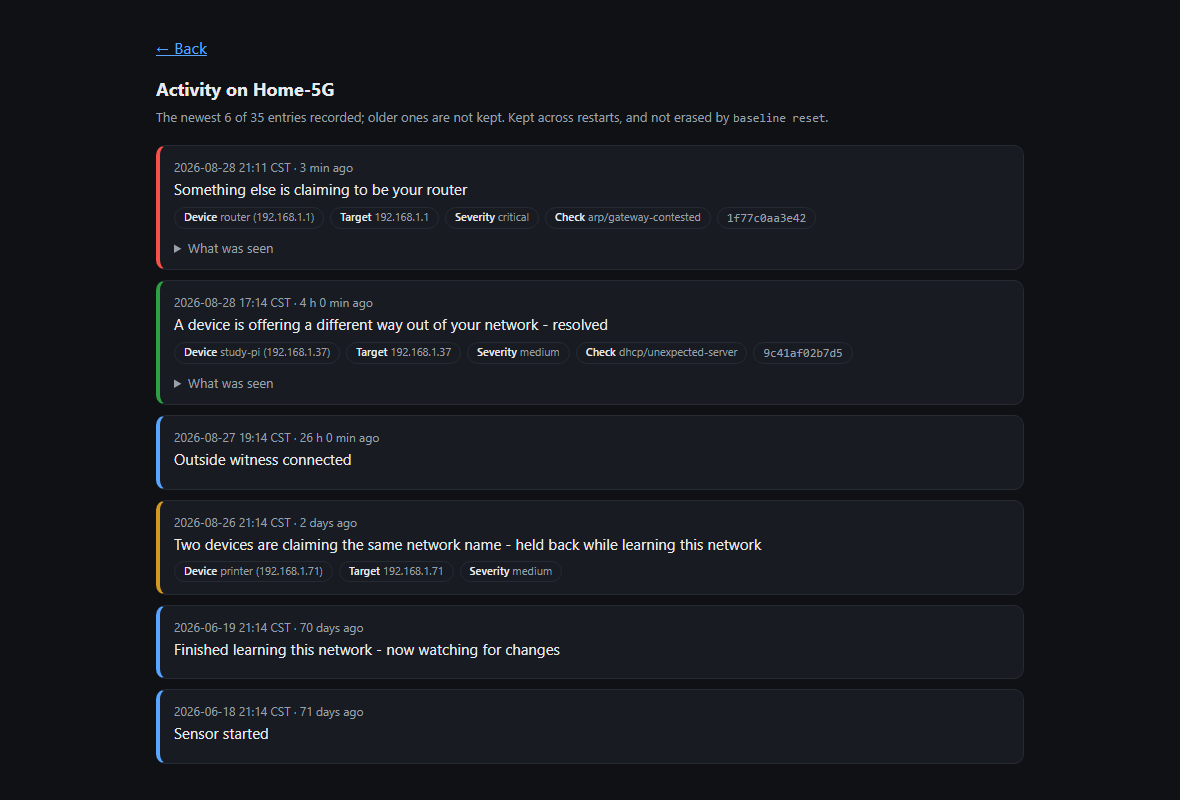
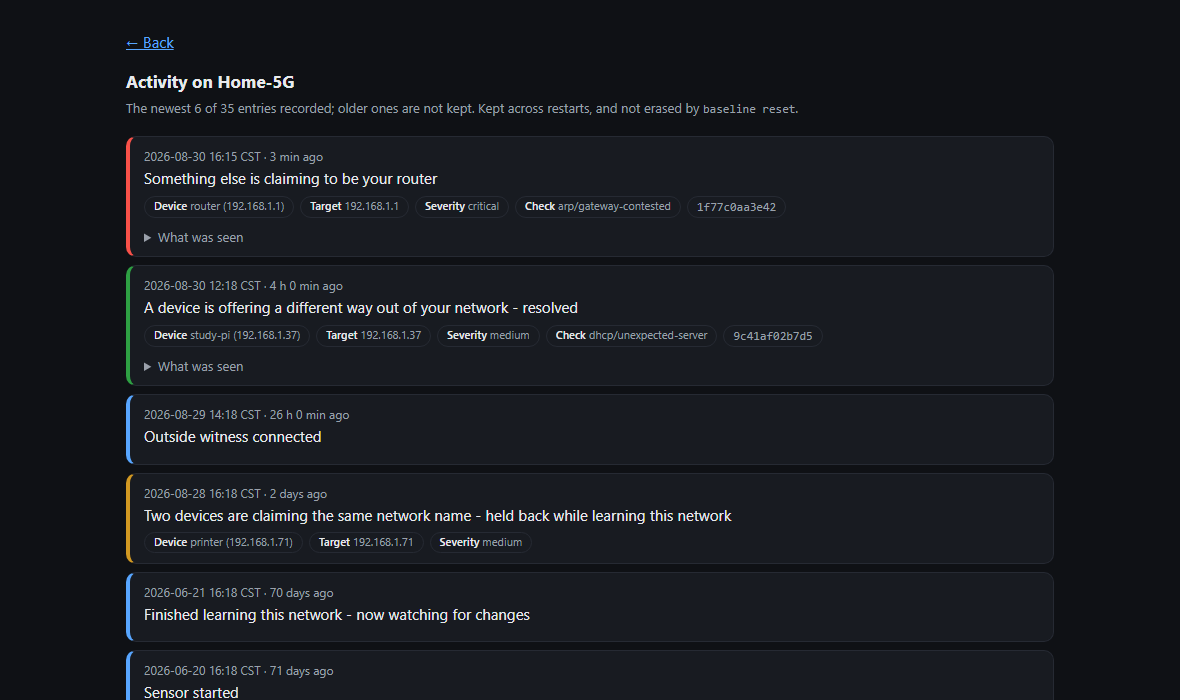
web: lay the dashboard out for the state it is in almost all of the time
The page spent the same space on "everything is fine" as on "you are being
intercepted", and it is in the first state essentially always. At 1180px wide a
healthy network rendered ~1050px tall, and ~520px of that came before the first
row of real content: a banner and a facts strip that between them repeated the
network name and the trust level, then six cards using 220px to say "ok" six
times. On a phone it was ~570px of scrolling to reach anything.

Now the verdict and the facts are one status bar, and the six areas are one row
of chips with a coloured dot each. An area that needs attention expands to a
full-width row and floats to the front, so the state that matters is the only
one that costs space. A healthy page is ~470px with content starting at ~145px;
the alarmed page is now taller than the calm one, which is the right way round.

Only "attention" expands, and that is deliberate rather than "anything not ok".
Wi-Fi is permanently "unknown" because that monitor is not built, so expanding
on not-ok would put a shouting row on every healthy page - it did, until I
looked at the render. During the learning window every area is "learning",
which would have expanded all six at once.

Emoji are gone. areaIcon returned six of them and nothing replaces it: the six
labels are already short, the coloured dot already carries state, and a second
glyph per chip would double the noise of the densest element on the page for no
[…]

Changed region(s): [[0.0915, 0.03, 0.7017, 1.0], [0.6407, 0.42, 0.7322, 0.51], [0.2441, 0.93, 0.2746, 0.99]]

diff --git a/internal/web/templates/home.html b/internal/web/templates/home.html
@@ -21,76 +21,109 @@
   *{box-sizing:border-box}
   body{margin:0;font:16px/1.5 system-ui,-apple-system,Segoe UI,Roboto,sans-serif;
     background:var(--bg);color:var(--ink);overflow-x:hidden}
-  .wrap{max-width:960px;margin:0 auto;padding:20px 16px 64px}
+  .wrap{max-width:960px;margin:0 auto;padding:16px 16px 40px;font-size:15px}
   header{display:flex;align-items:baseline;justify-content:space-between;gap:12px;flex-wrap:wrap}
-  header h1{font-size:15px;font-weight:600;color:var(--dim);margin:0;letter-spacing:.02em}
-  header .net{font-size:13px;color:var(--dim)}
-  .banner{margin:16px 0 10px;padding:22px 20px;border-radius:14px;background:var(--card);
-    border:1px solid var(--edge);border-left:6px solid var(--accent);display:flex;gap:16px;align-items:center}
-  .banner .dot{width:14px;height:14px;border-radius:50%;background:var(--accent);flex:none;
-    box-shadow:0 0 0 4px color-mix(in srgb,var(--accent) 25%,transparent)}
-  .banner h2{margin:0;font-size:22px}
-  .banner .sub{color:var(--dim);font-size:13px;margin-top:2px}
-  .facts{display:flex;flex-wrap:wrap;gap:8px;margin:0 0 4px}
-  .fact{font-size:12px;color:var(--dim);background:var(--card);border:1px solid var(--edge);
-    border-radius:999px;padding:5px 12px;display:flex;align-items:center;gap:6px}
-  .fact b{color:var(--ink);font-weight:600}
-  .dot2{width:8px;height:8px;border-radius:50%;flex:none}
+  header h1{font-size:14px;font-weight:600;color:var(--dim);margin:0;letter-spacing:.02em}
+  header .net{font-size:12px;color:var(--dim)}
+
+  /* The verdict and the facts about this sensor, in one row instead of two
+     stacked blocks. The old banner spent ~130px with its facts strip to say one
+     sentence, and repeated the network name and trust level that both already
+     appear elsewhere on the same screen. */
+  .statusbar{display:flex;flex-wrap:wrap;align-items:center;gap:6px 14px;
+    margin:10px 0 0;padding:10px 14px;border-radius:10px;
+    background:var(--card);border:1px solid var(--edge);border-left:4px solid var(--accent)}
+  .statusbar .dot{width:10px;height:10px;border-radius:50%;background:var(--accent);flex:none;
+    box-shadow:0 0 0 3px color-mix(in srgb,var(--accent) 25%,transparent)}
+  .statusbar h2{margin:0;font-size:20px;line-height:1.2;font-weight:600}
+  .statusbar .meta{margin-left:auto;font-size:12px;color:var(--dim);
+    display:flex;flex-wrap:wrap;gap:4px 10px}
+  .statusbar .meta b{color:var(--ink);font-weight:600}
+  html[data-state="attention"] .statusbar{border-left-width:5px;
+    background:color-mix(in srgb,var(--bad) 8%,var(--card))}
+  @media (max-width:640px){.statusbar .meta{margin-left:0;flex-basis:100%}}
+  .dot2{width:7px;height:7px;border-radius:50%;flex:none;display:inline-block}
   .dot2.ok{background:var(--ok)} .dot2.bad{background:var(--bad)} .dot2.none{background:var(--unknown)}
-  .grid{display:grid;grid-template-columns:repeat(auto-fill,minmax(230px,1fr));gap:12px;margin:16px 0}
-  .card{background:var(--card);border:1px solid var(--edge);border-radius:12px;padding:14px}
-  .card .head{display:flex;align-items:center;gap:8px;font-weight:600}
-  .card .icon{font-size:18px}
-  .card .line{color:var(--dim);font-size:13px;margin-top:6px}
-  .pill{margin-left:auto;font-size:11px;text-transform:uppercase;letter-spacing:.04em;
-    padding:2px 8px;border-radius:999px;border:1px solid var(--edge);color:var(--dim)}
-  .pill.ok{color:var(--ok);border-color:color-mix(in srgb,var(--ok) 50%,var(--edge))}
-  .pill.attention{color:var(--bad);border-color:color-mix(in srgb,var(--bad) 50%,var(--edge))}
-  .pill.learning{color:var(--learn);border-color:color-mix(in srgb,var(--learn) 50%,var(--edge))}
-  h3.sec{font-size:13px;color:var(--dim);text-transform:uppercase;letter-spacing:.05em;margin:26px 0 10px;
-    display:flex;align-items:center;gap:8px}
-  h3.sec .count{font-size:11px;color:var(--dim);background:var(--card);border:1px solid var(--edge);
-    border-radius:999px;padding:1px 8px}
+
+  /* The six areas. This page is in the all-clear state almost all of the time,
+     and six cards spending 220px to say "ok" six times is the bulk of what was
+     being wasted. Every area is a chip with a coloured dot; only one that needs
+     attention expands to a full-width row and floats to the front, so the state
+     that matters is the only one that costs space.
+     Only "attention" expands, deliberately. Wi-Fi is permanently "unknown"
+     because that monitor is not built, so expanding on not-ok would put a
+     shouting row on every healthy page; and during the learning window every
+     area is "learning", which would expand all six at once. Both of those are
+     chips, and a check that could not run is also recorded in the activity log
+     rather than relying on this strip to carry it. */
+  ul.strip{list-style:none;display:flex;flex-wrap:wrap;gap:6px;margin:8px 0 0;padding:0}
+  ul.strip li{display:flex;align-items:center;gap:7px;font-size:13px;
+    padding:3px 11px 3px 9px;border:1px solid var(--edge);border-radius:999px;
+    background:var(--card);white-space:nowrap}
+  ul.strip li::before{content:"";width:7px;height:7px;border-radius:50%;flex:none;background:var(--unknown)}
+  ul.strip li.ok::before{background:var(--ok)}
+  ul.strip li.attention::before{background:var(--bad)}
+  ul.strip li.learning::before{background:var(--learn)}
+  ul.strip li.unknown::before{background:var(--unknown)}
+  /* order:-1 puts the unhappy area first without the server reordering. */
+  ul.strip li.open{flex-basis:100%;white-space:normal;border-radius:10px;order:-1;
+    padding:8px 12px;align-items:flex-start;gap:9px;
+    border-color:color-mix(in srgb,var(--bad) 45%,var(--edge))}
+  ul.strip li.open::before{margin-top:6px;width:8px;height:8px}
+  ul.strip li .band{font-size:11px;text-transform:uppercase;letter-spacing:.05em;color:var(--bad)}
+  ul.strip li .line{color:var(--dim);font-size:13px}
+
   .alert{background:var(--card);border:1px solid var(--edge);border-left:5px solid var(--bad);
-    border-radius:12px;padding:16px;margin-bottom:12px}
-  .alert h4{margin:0 0 4px;font-size:17px}
+    border-radius:10px;padding:12px 14px;margin:16px 0 0}
   .alert .band{font-size:11px;text-transform:uppercase;letter-spacing:.05em;color:var(--bad)}
-  .alert .mean{margin:8px 0 0}
-  .alert .act{margin:8px 0 0;padding:10px 12px;background:color-mix(in srgb,var(--warn) 12%,transparent);
-    border-radius:8px;font-size:14px}
-  .alert details{margin-top:10px}
-  .alert summary{cursor:pointer;color:var(--dim);font-size:13px}
-  .alert table{width:100%;border-collapse:collapse;margin-top:8px;font-size:13px}
-  .alert td{padding:3px 8px;border-top:1px solid var(--edge);vertical-align:top}
+  .alert h4{margin:2px 0 0;font-size:15px}
+  .alert .mean{margin:6px 0 0;font-size:13px;color:var(--dim)}
+  .alert .act{margin:8px 0 0;padding:8px 10px;border-radius:6px;font-size:13px;
+    background:color-mix(in srgb,var(--warn) 12%,transparent)}
+  .alert .evlabel{margin:10px 0 0;font-size:11px;text-transform:uppercase;letter-spacing:.05em;color:var(--dim)}
+  /* Always visible rather than behind a disclosure: the page reloads itself
+     every 15 seconds, so anything the reader opened would close under them.
+     Capped and scrolled instead, because an evidence map is attacker-influenced
+     text and must not be able to lengthen the page without bound. */
+  .alert .ev{margin:4px 0 0;max-height:180px;overflow:auto}
+  .alert table{width:100%;border-collapse:collapse;font-size:12px}
+  .alert td{padding:2px 8px 2px 0;border-top:1px solid var(--edge);vertical-align:top;word-break:break-word}
   .alert td.k{color:var(--dim);white-space:nowrap;width:1%}
-  .cols{display:grid;grid-template-columns:1.35fr 1fr;gap:12px;align-items:start}
+
+  .cols{display:grid;grid-template-columns:1.35fr 1fr;gap:12px;align-items:start;margin-top:16px}
   .cols>*{min-width:0}
-  /* The device table is dense (name, IP, MAC, age); two columns only earn their
-     keep on a wide screen. Below that, stack so the table gets the full width
-     and its cells stop wrapping mid-value. */
+  /* The device table is dense (name, address, hardware, two dates); two columns
+     only earn their keep on a wide screen. Below that, stack so the table gets
+     the full width and its cells stop wrapping mid-value. */
   @media (max-width:900px){.cols{grid-template-columns:1fr}}
-  /* On a phone the hardware address is the widest, least-needed column: drop it
-     so the table fits without a sideways scroll. */
+  /* On a phone the hardware address and the first-seen date are the widest,
+     least-needed columns: hide them so the table fits without a sideways
+     scroll. Hidden in CSS, never dropped from the markup - the cells still
+     exist, which is what keeps the page honest at every width. */
   @media (max-width:560px){
-    table.dev th:nth-child(3),table.dev td:nth-child(3){display:none}
+    table.dev th:nth-child(3),table.dev td:nth-child(3),
     table.dev th:nth-child(4),table.dev td:nth-child(4){display:none}
   }
-  .panel{background:var(--card);border:1px solid var(--edge);border-radius:12px;padding:14px 16px}
-  .panel h3.sec{margin:2px 0 10px}
+  .panel{background:var(--card);border:1px solid var(--edge);border-radius:10px;padding:12px 14px}
+  h3.sec{font-size:12px;color:var(--dim);text-transform:uppercase;letter-spacing:.05em;
+    margin:0 0 10px;display:flex;align-items:center;gap:8px}
+  h3.sec a{color:inherit;text-decoration:none;border-bottom:1px dotted var(--edge)}
+  h3.sec .count{font-size:11px;color:var(--dim);border:1px solid var(--edge);
+    border-radius:999px;padding:1px 8px}
   /* Grow with content, then cap and scroll inside rather than lengthen the page. */
   .tablewrap{overflow:auto;max-height:62vh}
   table.dev{width:100%;border-collapse:collapse;font-size:13px}
   table.dev th{text-align:left;font-weight:600;color:var(--dim);font-size:11px;text-transform:uppercase;
-    letter-spacing:.04em;padding:6px 8px 6px 0;border-bottom:1px solid var(--edge);white-space:nowrap;
+    letter-spacing:.04em;padding:4px 8px 4px 0;border-bottom:1px solid var(--edge);white-space:nowrap;
     position:sticky;top:0;background:var(--card)}
-  table.dev td{padding:7px 8px 7px 0;border-bottom:1px solid var(--edge);vertical-align:top;white-space:nowrap}
+  table.dev td{padding:5px 8px 5px 0;border-bottom:1px solid var(--edge);vertical-align:top;white-space:nowrap}
   /* Names can be long (a full hostname); let only that column wrap. */
   table.dev td:first-child{white-space:normal;word-break:break-word}
   table.dev tr:last-child td{border-bottom:none}
   .mono{font-family:ui-monospace,SFMono-Regular,Menlo,Consolas,monospace;font-size:12px}
   .dim{color:var(--dim)}
   ul.log{list-style:none;margin:0;padding:0;max-height:62vh;overflow-y:auto}
-  ul.log li{display:flex;gap:10px;padding:7px 0;border-bottom:1px solid var(--edge);font-size:13px}
+  ul.log li{display:flex;gap:10px;padding:5px 0;border-bottom:1px solid var(--edge);font-size:13px}
   ul.log li:last-child{border-bottom:none}
   ul.log li::before{content:"";width:8px;height:8px;border-radius:50%;flex:none;margin-top:6px;background:var(--dim)}
   ul.log li.log-alert::before{background:var(--bad)}
@@ -98,12 +131,12 @@
   ul.log li.log-stale::before{background:var(--warn)}
   ul.log li.log-held::before{background:var(--warn)}
   ul.log li.log-system::before{background:var(--learn)}
-  ul.log .when{color:var(--dim);white-space:nowrap;flex:none;min-width:78px}
+  ul.log .when{color:var(--dim);white-space:nowrap;flex:none;min-width:74px}
   ul.log .who{color:var(--dim)}
   .more{margin-top:10px;font-size:12px}
-  /* When the neighbour table could not be read, this stops advancing while the
-     header keeps saying "last checked under a minute ago". The disagreement is
-     the point: it must be visible that the list is older than the page. */
+  /* The device reading has its own clock. When the neighbour table could not be
+     read this stops advancing while the header keeps saying "last checked under
+     a minute ago"; the disagreement is the point. */
   .asof{margin-left:auto;font-size:11px;color:var(--dim);text-transform:none;letter-spacing:0}
   /* A device that is no longer here still belongs in the list - dimmed, not
      deleted, because "was here yesterday" is the thing history is for. */
@@ -111,8 +144,8 @@
   table.dev .now{color:var(--ok)}
   .note{font-size:10px;color:var(--dim);border:1px solid var(--edge);border-radius:999px;
     padding:0 6px;white-space:nowrap}
-  .clear{color:var(--dim);padding:8px 0}
-  footer{margin-top:32px;color:var(--dim);font-size:12px;display:flex;gap:16px;flex-wrap:wrap}
+  .clear{color:var(--dim);padding:6px 0;font-size:13px}
+  footer{margin-top:24px;color:var(--dim);font-size:11px}
   a{color:var(--learn)}
 </style>
 </head>
@@ -123,37 +156,30 @@
     <span class="net">{{.Network}} &middot; last checked {{since .LastCheck}}</span>
   </header>
 
-  <div class="banner">
+  <div class="statusbar">
     <span class="dot"></span>
-    <div>
-      <h2>{{.Sentence}}</h2>
-      <div class="sub">Network "{{.Network}}" &middot; trust level {{.Trust}}</div>
-    </div>
-  </div>
-
-  <div class="facts">
-    <span class="fact"><b>Trust</b> {{.Trust}}</span>
-    {{if .Tier}}<span class="fact"><b>Watching</b> {{.Tier}}</span>{{end}}
-    <span class="fact"><b>Outside check</b>
-      {{if .Witness.Configured}}
-        {{if .Witness.Connected}}<span class="dot2 ok"></span>connected{{else}}<span class="dot2 bad"></span>link down{{end}}
-      {{else}}<span class="dot2 none"></span>not set up{{end}}
+    <h2>{{.Sentence}}</h2>
+    <span class="meta">
+      <span>trust <b>{{.Trust}}</b></span>
+      {{if .Tier}}<span>watching <b>{{.Tier}}</b></span>{{end}}
+      <span>outside
+        {{if .Witness.Configured}}
+          {{if .Witness.Connected}}<span class="dot2 ok"></span> <b>connected</b>{{else}}<span class="dot2 bad"></span> <b>link down</b>{{end}}
+        {{else}}<span class="dot2 none"></span> <b>not set up</b>{{end}}
+      </span>
+      {{if .Uptime}}<span>running <b>{{.Uptime}}</b></span>{{end}}
     </span>
-    {{if .Uptime}}<span class="fact"><b>Running</b> {{.Uptime}}</span>{{end}}
   </div>
 
-  <div class="grid">
+  <ul class="strip">
     {{range .Areas}}
-    <div class="card">
-      <div class="head"><span class="icon">{{icon .Key}}</span>{{.Name}}
-        <span class="pill {{.State}}">{{.State}}</span></div>
-      <div class="line">{{.Line}}</div>
-    </div>
+    <li class="{{.State}}{{if eq .State "attention"}} open{{end}}">
+      <span>{{.Name}}{{if eq .State "attention"}} <span class="band">{{.State}}</span><br><span class="line">{{.Line}}</span>{{end}}</span>
+    </li>
     {{end}}
-  </div>
+    {{if gt .Held 0}}<li class="learning"><span>{{.Held}} held while learning</span></li>{{end}}
+  </ul>
 
-  {{if .Alerts}}
-  <h3 class="sec">Needs your attention</h3>
   {{range .Alerts}}
     {{range .Findings}}
     <div class="alert">
@@ -162,22 +188,19 @@
       {{if .Meaning}}<p class="mean">{{.Meaning}}</p>{{end}}
       {{if .Action}}<div class="act"><strong>What to do:</strong> {{.Action}}</div>{{end}}
       {{if .Evidence}}
-      <details><summary>Technical details</summary>
+      <div class="evlabel">Technical details</div>
+      <div class="ev">
         <table>
         {{range $k,$v := .Evidence}}<tr><td class="k">{{$k}}</td><td>{{$v}}</td></tr>{{end}}
         </table>
-      </details>{{end}}
+      </div>{{end}}
     </div>
     {{end}}
-  {{end}}
-  {{else}}
-  <h3 class="sec">Status</h3>
-  <div class="clear">Nothing to report right now. {{if gt .Held 0}}{{.Held}} finding(s) held back while learning.{{end}}</div>
   {{end}}
 
   <div class="cols">
     <div class="panel">
-      <h3 class="sec">Devices <span class="count">{{.Devices}}</span>
+      <h3 class="sec"><a href="/devices">Devices</a> <span class="count">{{.Devices}}</span>
         {{if .DevicesAt}}<span class="asof" title="{{at .DevicesAt}}">read {{since .DevicesAt}}</span>{{end}}</h3>
       {{if .DeviceList}}
       <div class="tablewrap">
@@ -201,7 +224,7 @@
     </div>
 
     <div class="panel">
-      <h3 class="sec">Activity</h3>
+      <h3 class="sec"><a href="/activity">Activity</a></h3>
       {{if .Events}}
       <ul class="log">
       {{range .Events}}
@@ -218,10 +241,7 @@
     </div>
   </div>
 
-  <footer>
-    <a href="/devices">All devices ({{.Devices}})</a>
-    <span>mitmwatch watches this network and this device. It cannot see attacks aimed only at other machines.</span>
-  </footer>
+  <footer>mitmwatch watches this network and this device. It cannot see attacks aimed only at other machines.</footer>
 </div>
 </body>
 </html>{{end}}

diff --git a/internal/web/templates/devices.html b/internal/web/templates/devices.html
@@ -9,11 +9,11 @@
   @media (prefers-color-scheme: light){:root{--bg:#f6f7f9;--card:#fff;--edge:#e2e5ea;--ink:#1b1f24;--dim:#5b6472}}
   *{box-sizing:border-box}
   body{margin:0;font:16px/1.5 system-ui,-apple-system,Segoe UI,Roboto,sans-serif;background:var(--bg);color:var(--ink)}
-  .wrap{max-width:900px;margin:0 auto;padding:20px 16px 64px}
+  .wrap{max-width:960px;margin:0 auto;padding:16px 16px 40px;font-size:15px}
   a{color:var(--learn)}
-  h1{font-size:18px}
-  table{width:100%;border-collapse:collapse;background:var(--card);border:1px solid var(--edge);border-radius:12px;overflow:hidden}
-  th,td{padding:10px 12px;text-align:left;border-bottom:1px solid var(--edge);font-size:14px}
+  h1{font-size:17px;margin:0 0 4px}
+  table{width:100%;border-collapse:collapse;background:var(--card);border:1px solid var(--edge);border-radius:10px;overflow:hidden}
+  th,td{padding:6px 12px;text-align:left;border-bottom:1px solid var(--edge);font-size:14px}
   th{color:var(--dim);font-weight:600;font-size:12px;text-transform:uppercase;letter-spacing:.04em}
   tr:last-child td{border-bottom:none}
   .mac{color:var(--dim);font-family:ui-monospace,SFMono-Regular,Menlo,monospace;font-size:13px}

diff --git a/internal/web/templates/activity.html b/internal/web/templates/activity.html
@@ -11,12 +11,12 @@
   *{box-sizing:border-box}
   body{margin:0;font:16px/1.5 system-ui,-apple-system,Segoe UI,Roboto,sans-serif;
     background:var(--bg);color:var(--ink);overflow-x:hidden}
-  .wrap{max-width:900px;margin:0 auto;padding:20px 16px 64px}
+  .wrap{max-width:960px;margin:0 auto;padding:16px 16px 40px;font-size:15px}
   a{color:var(--learn)}
-  h1{font-size:18px;margin:0 0 4px}
+  h1{font-size:17px;margin:0 0 4px}
   .sub{color:var(--dim);font-size:13px;margin-bottom:18px}
   .ev{background:var(--card);border:1px solid var(--edge);border-left:4px solid var(--dim);
-    border-radius:10px;padding:12px 14px;margin-bottom:10px}
+    border-radius:10px;padding:10px 14px;margin-bottom:8px}
   .ev.k-alert{border-left-color:var(--bad)}
   .ev.k-clear{border-left-color:var(--ok)}
   .ev.k-stale{border-left-color:var(--warn)}

diff --git a/internal/web/web.go b/internal/web/web.go
@@ -223,7 +223,6 @@ func (s *State) execLocked(exec func(any) error, build func() any) error {
 func Handler(s *State) http.Handler {
 	tpl := template.Must(template.New("").Funcs(template.FuncMap{
 		"upper":   strings.ToUpper,
-		"icon":    areaIcon,
 		"favicon": favicon,
 		"since": func(t time.Time) string {
 			if t.IsZero() {
@@ -438,26 +437,6 @@ func (s *State) orderedAreas() []Area {
 		out = append(out, s.areas[k])
 	}
 	return out
-}
-
-// areaIcon is a text glyph, not an image: the page loads nothing external, and
-// an emoji costs no request.
-func areaIcon(key string) string {
-	switch key {
-	case "router":
-		return "🛜" // hut/router-ish
-	case "wifi":
-		return "📶"
-	case "dns":
-		return "🔍"
-	case "tls":
-		return "🔒"
-	case "devices":
-		return "🖥"
-	case "outside":
-		return "🌍"
-	}
-	return "•"
 }
 
 func contains(ss []string, s string) bool {

diff --git a/README.md b/README.md
@@ -28,18 +28,24 @@ styles and its icon are all served from the binary — so it renders even when t
 internet is exactly what is broken. The browser-tab favicon turns red the moment
 something needs attention, so a background tab still tells you.
 
+The page is in the all-clear state almost all of the time, and it is laid out for
+that: the six areas collapse to one row of chips, and only an area that needs
+attention expands and floats to the front. A calm network is a short page; an
+alarmed one grows. There are no icons and no emoji — the words are already
+short, and the one coloured dot per chip is the only signal that has to carry.
+
 *(The screenshots below use fabricated data; the attack shown is illustrative.)*
 
-![mitmwatch dashboard showing a detected router-impersonation (ARP) attack — a red banner, the affected card, a plain-language explanation with what to do, the device list and a live activity log](docs/dashboard.png)
+![mitmwatch dashboard showing a detected router-impersonation (ARP) attack — a red status bar, the affected area expanded out of the status strip, a plain-language explanation with what to do and the evidence behind it, then the device list and the activity log](docs/dashboard.png)
 
 It is responsive, and the same page reads cleanly on a phone:
 
-<p align="center"><img src="docs/dashboard-mobile.png" width="380" alt="the mitmwatch dashboard on a phone, cards stacked into a single column"></p>
+<p align="center"><img src="docs/dashboard-mobile.png" width="380" alt="the mitmwatch dashboard on a phone: the status bar wraps, the area chips reflow, and the device table drops its widest columns"></p>
 
 When nothing is wrong it stays calm and green, with the device list and recent
 activity to hand:
 
-![mitmwatch dashboard in its all-clear state — a green banner, six green area cards, and the devices and activity panels](docs/dashboard-clear.png)
+![mitmwatch dashboard in its all-clear state — a green status bar, the six areas collapsed to a single row of chips, and the devices and activity panels](docs/dashboard-clear.png)
 
 Devices are remembered by hardware address, so one that is switched off stays on
 the list with the time it was last seen rather than silently disappearing, and
